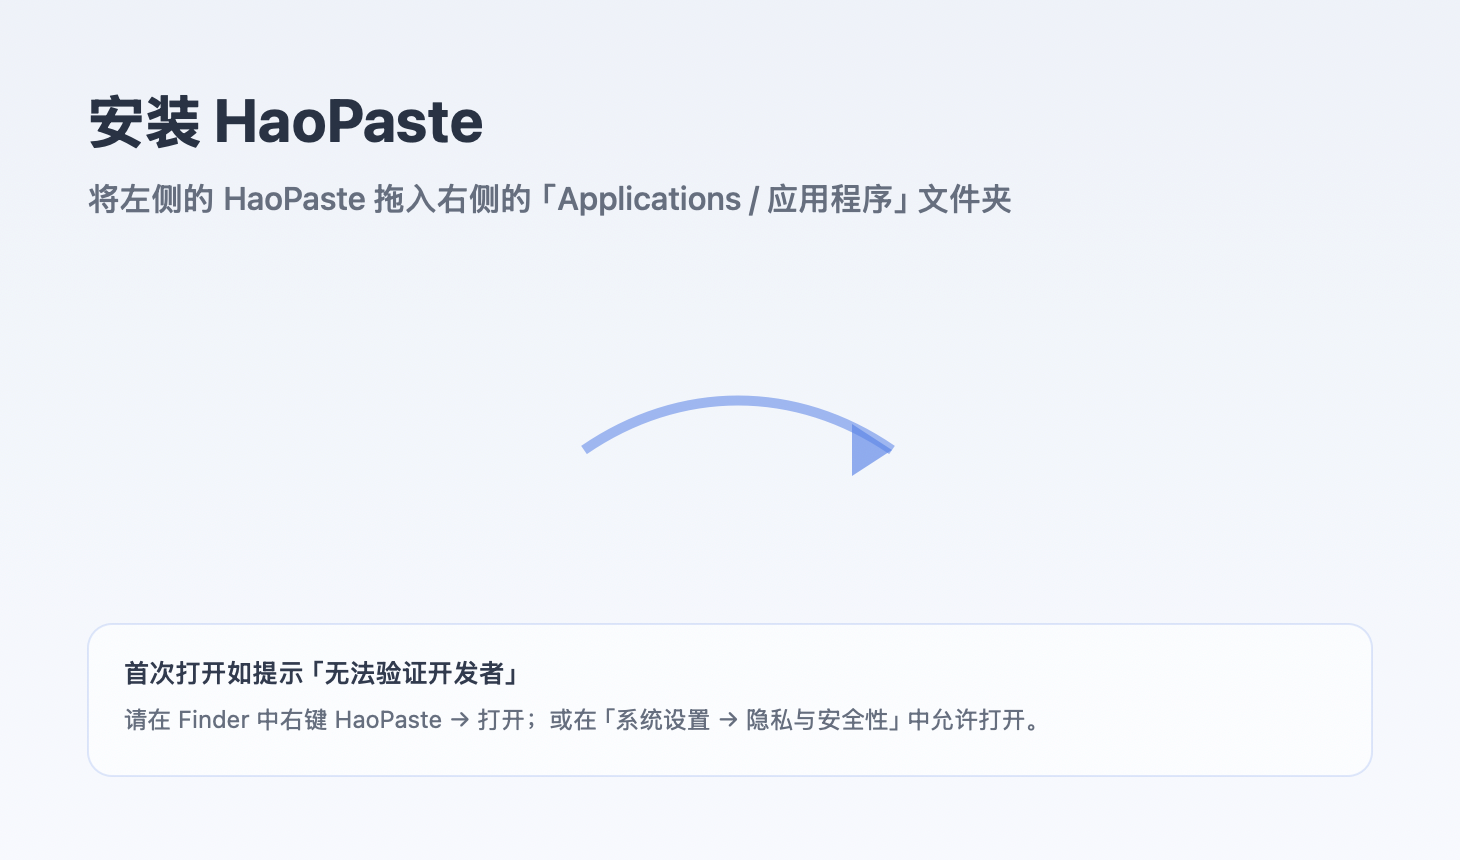
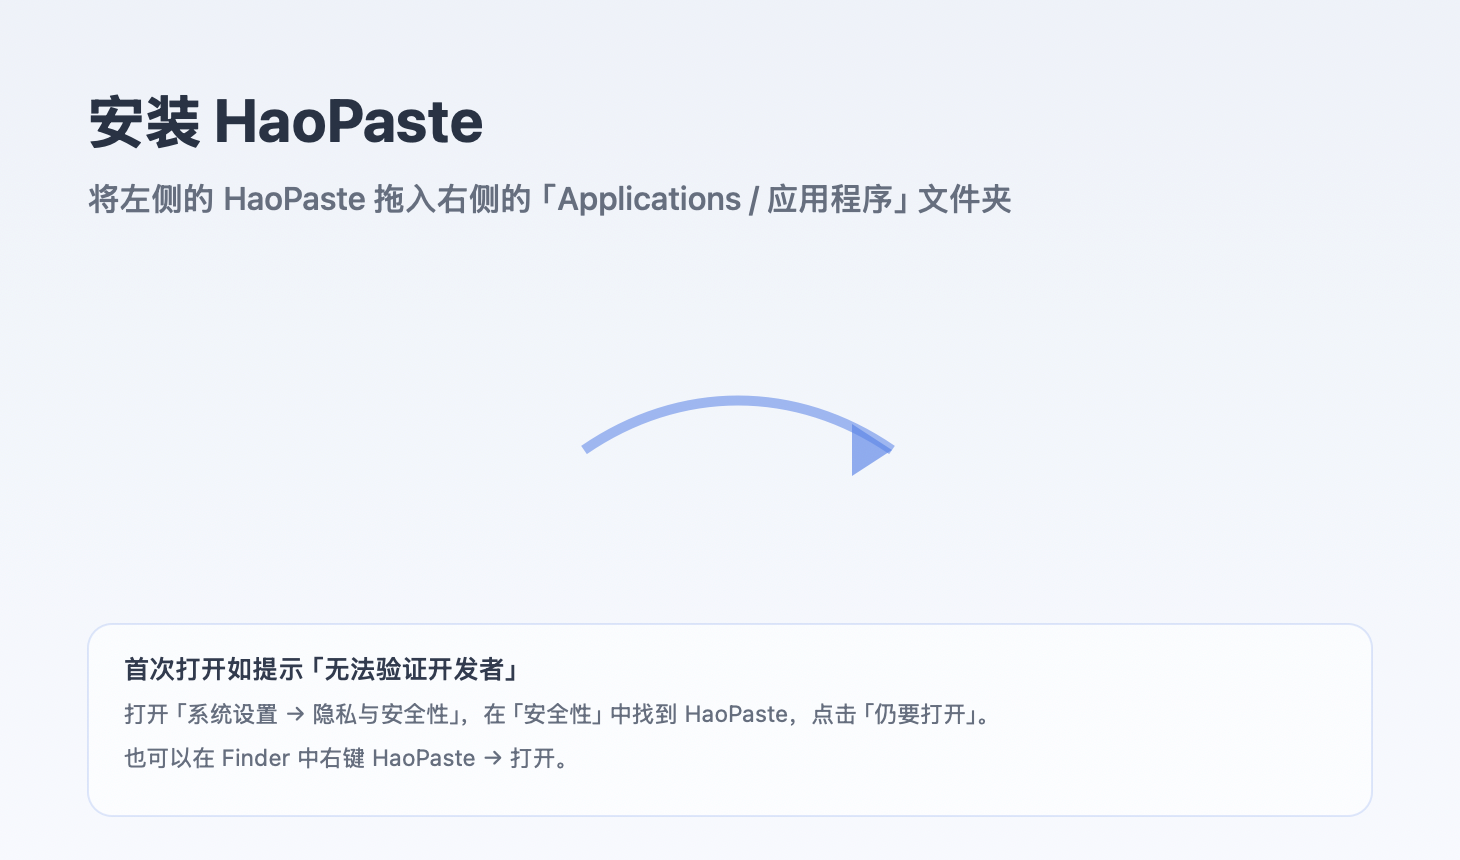
docs: clarify install steps and use bilingual release notes
- Tell users to open System Settings → Privacy & Security, find HaoPaste and click Open Anyway

- Extract release notes from CHANGELOG.md and require an English/Chinese entry per release

- Keep the DMG background and headless install note consistent

Changed region(s): [[0.0616, 0.7558, 0.7089, 0.907]]

diff --git a/Scripts/generate-dmg-background.swift b/Scripts/generate-dmg-background.swift
@@ -69,7 +69,7 @@ arrowHead.close()
 accent.withAlphaComponent(0.65).setFill()
 arrowHead.fill()
 
-let noteBox = NSRect(x: 44, y: 42, width: 642, height: 76)
+let noteBox = NSRect(x: 44, y: 22, width: 642, height: 96)
 let note = NSBezierPath(roundedRect: noteBox, xRadius: 12, yRadius: 12)
 NSColor.white.withAlphaComponent(0.55).setFill()
 note.fill()
@@ -79,14 +79,20 @@ note.stroke()
 
 drawText(
     "首次打开如提示「无法验证开发者」",
-    in: NSRect(x: 62, y: 82, width: 606, height: 20),
+    in: NSRect(x: 62, y: 84, width: 606, height: 20),
     font: .systemFont(ofSize: 13, weight: .semibold),
     color: NSColor(calibratedRed: 0.16, green: 0.20, blue: 0.28, alpha: 1)
 )
 drawText(
-    "请在 Finder 中右键 HaoPaste → 打开；或在「系统设置 → 隐私与安全性」中允许打开。",
-    in: NSRect(x: 62, y: 58, width: 606, height: 20),
-    font: .systemFont(ofSize: 12, weight: .regular),
+    "打开「系统设置 → 隐私与安全性」，在「安全性」中找到 HaoPaste，点击「仍要打开」。",
+    in: NSRect(x: 62, y: 60, width: 606, height: 20),
+    font: .systemFont(ofSize: 11.5, weight: .regular),
+    color: secondary
+)
+drawText(
+    "也可以在 Finder 中右键 HaoPaste → 打开。",
+    in: NSRect(x: 62, y: 38, width: 606, height: 20),
+    font: .systemFont(ofSize: 11.5, weight: .regular),
     color: secondary
 )
 

diff --git a/CHANGELOG.md b/CHANGELOG.md
@@ -1,0 +1,29 @@
+# Changelog
+
+## 0.13.19 — 2026-11-10
+
+### 中文
+
+- 挂架复制后可以保持展开、立即收起或延迟 0.6 秒收起。
+- 新增「富文本只复制纯文本」设置，并在主面板和挂架右键菜单提供「复制为纯文本」。
+- 复制为纯文本不会生成重复历史条目。
+
+### English
+
+- Shelf copies can keep the shelf open, hide immediately, or hide after 0.6 seconds.
+- Added a "Rich text as plain text only" setting and "Copy as Plain Text" actions in the main panel and shelf context menus.
+- Copying as plain text no longer creates duplicate history entries.
+
+## 0.13.18 — 2026-11-10
+
+### 中文
+
+- 首次启动引导。
+- 默认从 GitHub Releases 检查更新。
+- 更新安装提示与发布流程。
+
+### English
+
+- First-launch onboarding.
+- Update checks from GitHub Releases by default.
+- Improved install guidance and release automation.

diff --git a/README.md b/README.md
@@ -26,7 +26,10 @@
    ```
 
 2. 双击打开 `dist/HaoPaste-0.13.19.dmg`，窗口内会显示安装提示；将 **HaoPaste** 拖入 **Applications / 应用程序**。
-3. 首次打开如提示“无法验证开发者”，在 Finder 中右键 HaoPaste → 打开。
+3. 首次打开如提示“无法验证开发者”：
+   - 打开「系统设置 → 隐私与安全性」
+   - 在「安全性」中找到 HaoPaste，点击「仍要打开」
+   - 也可以在 Finder 中右键 HaoPaste → 打开
 3. 从“应用程序”或 Spotlight 启动。首次启动会自动展示一次面板。
 4. 之后随时按 `⌥⌘V`，或点击菜单栏的剪贴板图标呼出；右键菜单栏图标可暂停监听、清空记录或退出。
 
